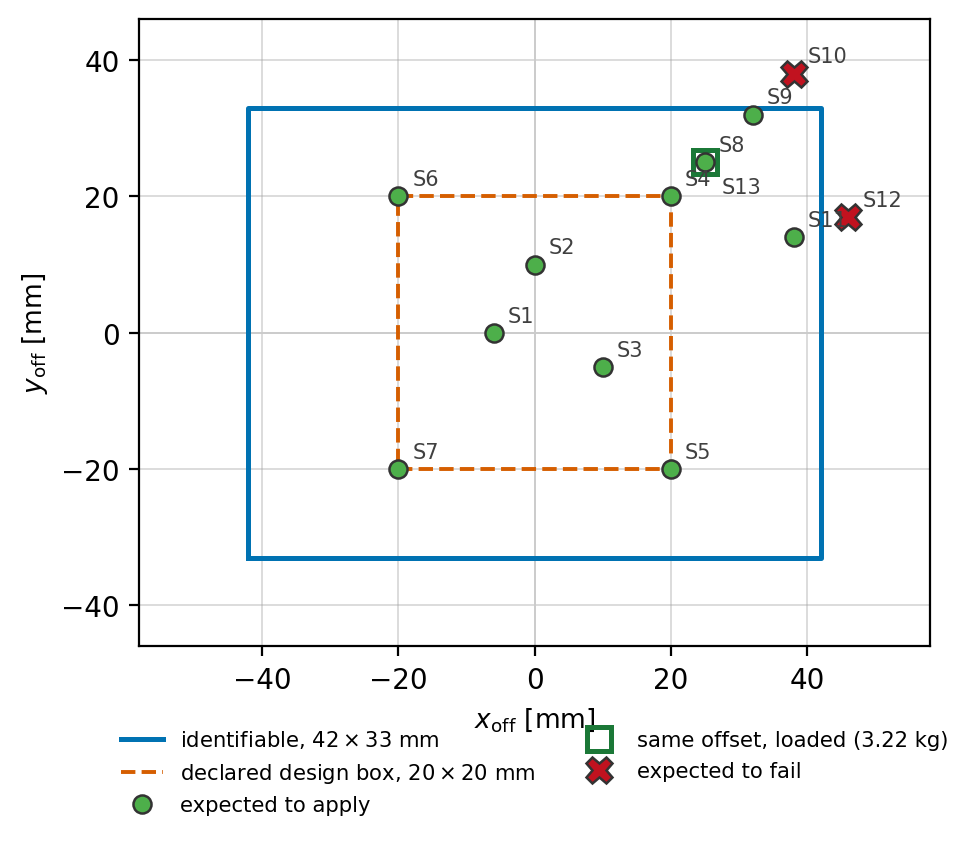
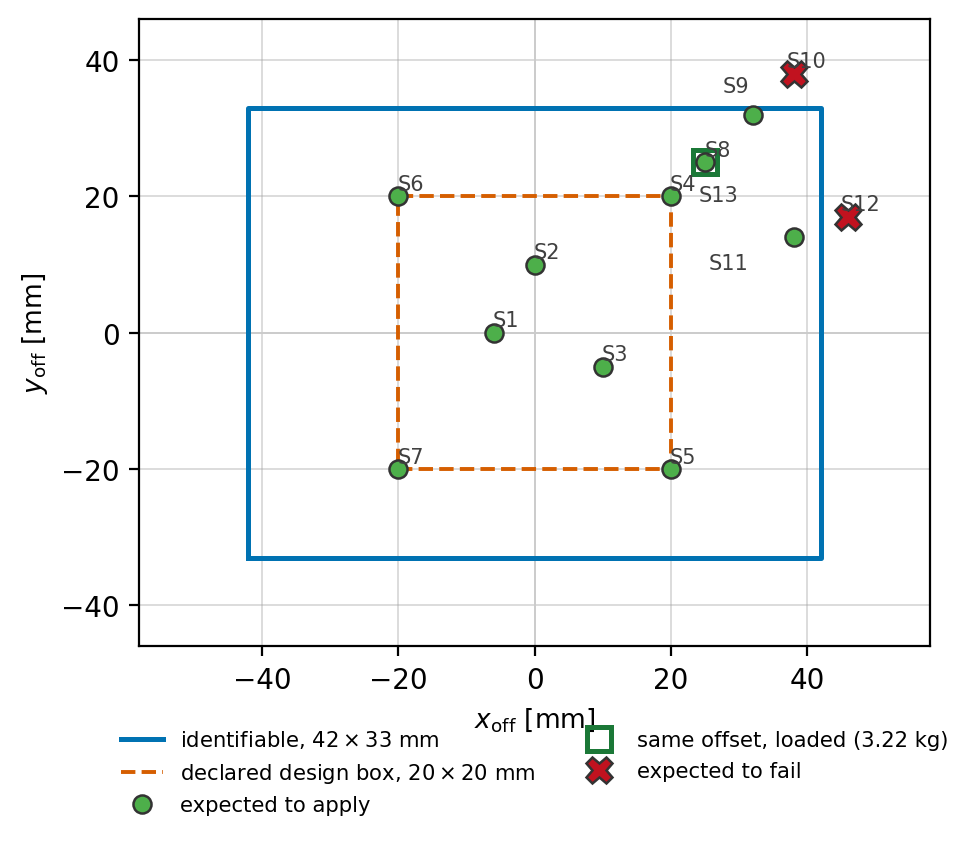
Place the crowded case labels explicitly
S9 sat on the roll bound drawn at y = 33 and S11 ran into the failure
marker beside it. Both now carry an explicit offset, held in one table
in millimetres of the plot's own units so the Python and MATLAB
figures place them identically; the MATLAB script receives the label
position as two extra columns rather than recomputing it.

The MATLAB emitter also needed its braces escaped: the cell array
{ok, ld, fail} in the template was being read as a Python format field,
which left the generated file empty.

diff --git a/analysis/sim_case_list.py b/analysis/sim_case_list.py
@@ -108,6 +108,27 @@ def predict(c):
     return M, m, ('ok' if not why else '; '.join(why))
 
 
+# Label placement, in millimetres of the plot's own units so the Python
+# and MATLAB figures agree. The default sits up and to the right of its
+# marker; the overrides move the few that would otherwise sit on the
+# identifiable boundary or on a neighbouring marker.
+LABEL_NUDGE = {
+    (32.0, 32.0): (-2.5, 4.2),    # clears the roll bound drawn at y = 33
+    (38.0, 14.0): (-9.5, -3.8),   # clears the failure marker to its right
+    (25.0, 25.0): (2.0, -4.8),    # the loaded case, under the point it repeats
+}
+NUDGE_DEFAULT = (1.8, 1.8)
+
+
+def nudge(r):
+    d = LABEL_NUDGE.get((r['x_off_mm'], r['y_off_mm']), NUDGE_DEFAULT)
+    # the unloaded twin of a repeated offset keeps the default
+    if (r['x_off_mm'], r['y_off_mm']) == (25.0, 25.0) \
+            and r['group'] != 'loaded':
+        return NUDGE_DEFAULT
+    return d
+
+
 def figure(rows, outdir):
     """The sweep in the offset plane, which is where it reads at a glance.
 
@@ -154,10 +175,10 @@ def figure(rows, outdir):
     ax.plot(*zip(*no), 'X', ms=9.5, mfc='#C1121F', mec='0.2', mew=0.9,
             ls='', zorder=4, label='expected to fail')
     for k, r in enumerate(rows, 1):
-        dx, dy = (5, 4) if r['group'] != 'loaded' else (6, -11)
-        ax.annotate(f'S{k}', (r['x_off_mm'], r['y_off_mm']),
-                    xytext=(dx, dy), textcoords='offset points',
-                    fontsize=7.5, color='0.25', zorder=5)
+        dx, dy = nudge(r)
+        ax.annotate(f'S{k}', (r['x_off_mm'] + dx, r['y_off_mm'] + dy),
+                    fontsize=7.5, color='0.25', zorder=5,
+                    ha='center', va='center')
 
     ax.set_xlim(-58, 58)
     ax.set_ylim(-46, 46)
@@ -190,10 +211,15 @@ def matlab(rows, outdir):
     xl = (1 - f / W) * L_PITCH * 1e3
 
     def arr(sel):
-        pts = [(r['x_off_mm'], r['y_off_mm'], k)
-               for k, r in enumerate(rows, 1) if sel(r)]
-        return ('[' + '; '.join(f'{x:g} {y:g} {k}' for x, y, k in pts)
-                + ']')
+        pts = []
+        for k, r in enumerate(rows, 1):
+            if not sel(r):
+                continue
+            dx, dy = nudge(r)
+            pts.append((r['x_off_mm'], r['y_off_mm'], k,
+                        r['x_off_mm'] + dx, r['y_off_mm'] + dy))
+        return ('[' + '; '.join(f'{x:g} {y:g} {k} {lx:g} {ly:g}'
+                                for x, y, k, lx, ly in pts) + ']')
 
     ok = arr(lambda r: r['verdict'] == 'ok' and r['group'] != 'loaded')
     ld = arr(lambda r: r['group'] == 'loaded')
@@ -241,17 +267,15 @@ h4 = plot(ax, ld(:,1), ld(:,2), 's', 'MarkerSize',9, ...
 h5 = plot(ax, fail(:,1), fail(:,2), 'x', 'MarkerSize',11, ...
           'Color',[0.757 0.071 0.122], 'LineWidth',2.4);
 
-for k = 1:size(ok,1)
-    text(ax, ok(k,1)+1.6, ok(k,2)+1.8, sprintf('S%d',ok(k,3)), ...
-         'FontSize',8, 'Color',[.25 .25 .25]);
-end
-for k = 1:size(ld,1)
-    text(ax, ld(k,1)+1.8, ld(k,2)-3.2, sprintf('S%d',ld(k,3)), ...
-         'FontSize',8, 'Color',[.25 .25 .25]);
-end
-for k = 1:size(fail,1)
-    text(ax, fail(k,1)+1.8, fail(k,2)+1.8, sprintf('S%d',fail(k,3)), ...
-         'FontSize',8, 'Color',[.25 .25 .25]);
+% columns 4-5 carry the label position, nudged where a default would
+% land on the identifiable boundary or on a neighbouring marker
+for T = {{ok, ld, fail}}
+    P = T{{1}};
+    for k = 1:size(P,1)
+        text(ax, P(k,4), P(k,5), sprintf('S%d',P(k,3)), ...
+             'FontSize',8, 'Color',[.25 .25 .25], ...
+             'HorizontalAlignment','center', 'VerticalAlignment','middle');
+    end
 end
 
 axis(ax,'equal');  xlim(ax,[-58 58]);  ylim(ax,[-46 46])

diff --git a/DataSet/plot_sim_cases.m b/DataSet/plot_sim_cases.m
@@ -16,9 +16,9 @@ x_lim = 42.0000;      % mm, pitch bound  (1 - f/W) * l_p,theta
 y_lim = 33.0000;      % mm, roll  bound  (1 - f/W) * l_p,phi
 box_x = 20; box_y = 20;   % declared design box
 
-ok   = [-6 0 1; 0 10 2; 10 -5 3; 20 20 4; 20 -20 5; -20 20 6; -20 -20 7; 25 25 8; 32 32 9; 38 14 11];
-ld   = [25 25 13];
-fail = [38 38 10; 46 17 12];
+ok   = [-6 0 1 -4.2 1.8; 0 10 2 1.8 11.8; 10 -5 3 11.8 -3.2; 20 20 4 21.8 21.8; 20 -20 5 21.8 -18.2; -20 20 6 -18.2 21.8; -20 -20 7 -18.2 -18.2; 25 25 8 26.8 26.8; 32 32 9 29.5 36.2; 38 14 11 28.5 10.2];
+ld   = [25 25 13 27 20.2];
+fail = [38 38 10 39.8 39.8; 46 17 12 47.8 18.8];
 
 % closed polylines: plot objects are legendable, rectangle() is not
 rect = @(a,b) deal([-a a a -a -a], [-b -b b b -b]);
@@ -39,17 +39,15 @@ h4 = plot(ax, ld(:,1), ld(:,2), 's', 'MarkerSize',9, ...
 h5 = plot(ax, fail(:,1), fail(:,2), 'x', 'MarkerSize',11, ...
           'Color',[0.757 0.071 0.122], 'LineWidth',2.4);
 
-for k = 1:size(ok,1)
-    text(ax, ok(k,1)+1.6, ok(k,2)+1.8, sprintf('S%d',ok(k,3)), ...
-         'FontSize',8, 'Color',[.25 .25 .25]);
-end
-for k = 1:size(ld,1)
-    text(ax, ld(k,1)+1.8, ld(k,2)-3.2, sprintf('S%d',ld(k,3)), ...
-         'FontSize',8, 'Color',[.25 .25 .25]);
-end
-for k = 1:size(fail,1)
-    text(ax, fail(k,1)+1.8, fail(k,2)+1.8, sprintf('S%d',fail(k,3)), ...
-         'FontSize',8, 'Color',[.25 .25 .25]);
+% columns 4-5 carry the label position, nudged where a default would
+% land on the identifiable boundary or on a neighbouring marker
+for T = {ok, ld, fail}
+    P = T{1};
+    for k = 1:size(P,1)
+        text(ax, P(k,4), P(k,5), sprintf('S%d',P(k,3)), ...
+             'FontSize',8, 'Color',[.25 .25 .25], ...
+             'HorizontalAlignment','center', 'VerticalAlignment','middle');
+    end
 end
 
 axis(ax,'equal');  xlim(ax,[-58 58]);  ylim(ax,[-46 46])
